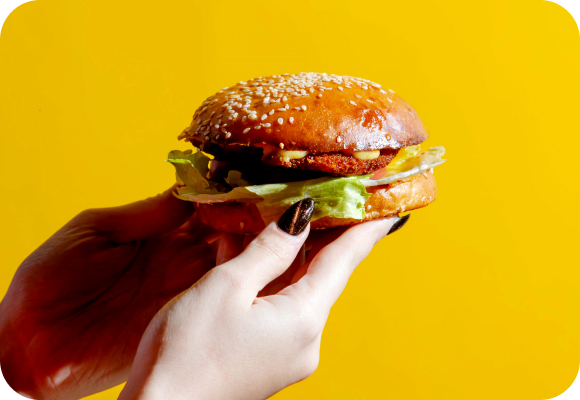
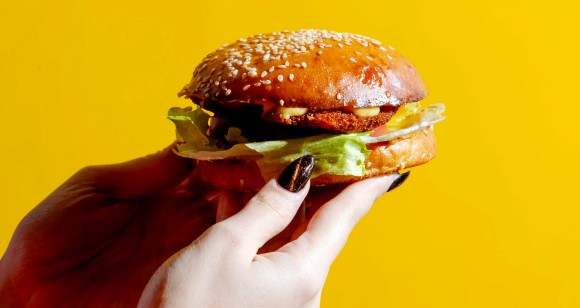
0000

diff --git a/main/main.css b/main/main.css
@@ -7,6 +7,10 @@
     --white: #FFFFFF;
     --black: #1D1D1D;
     --red: #FF3535;
+
+    --background: #D9D9D9;
+
+
   }
   
 
@@ -151,6 +155,8 @@ h3 {
 }
 
 .order {
+    display: flex;
+    flex-direction: column;
     padding: 2rem;
     height: 100%;
     border-radius: 0.75rem;
@@ -160,16 +166,11 @@ h3 {
     }
     p {
         color: #000000;
-        margin-bottom: 0;
-    }
-    .btn {
-        margin-top: 1.5rem;
     }
 }
 
 .burger {
     border-radius: 0.75rem;
-    background-color: var(--yellow);
 
     img {
         border-radius: 0.75rem;

diff --git a/blocks/headercss.css b/blocks/headercss.css
@@ -1,3 +1,9 @@
+:root{
+    --background: #1D1D1D;
+    --footer: #D6D6D6;
+    --color: black;
+}
+
 nav {
     display: flex;
     justify-content: center;

diff --git a/main/main.php b/main/main.php
@@ -52,7 +52,7 @@
                     <div class="butn"><p>Узнать подробнее</p>
                 </div>
                 </div>
-                <div class="burger"><img src="/main/burger_on_hand.jpg" alt="" width="100%"></div>
+                <div class="burger"><img src="/main/burger_on_hand.jpg" alt="" width="100%" style="overflow: hidden;height:100%;"></div>
             </div>
             <div style="position:relative;overflow:hidden;"><a href="https://yandex.ru/maps/org/kazanskaya_naberezhnaya/206821868201/?utm_medium=mapframe&utm_source=maps" style="color:#eee;font-size:12px;position:absolute;top:0px;"></a><a href="https://yandex.ru/maps/15/tula/category/landmark_attraction/89683368508/?utm_medium=mapframe&utm_source=maps" style="color:#eee;font-size:12px;position:absolute;top:14px;">Достопримечательность в Туле</a><iframe src="https://yandex.ru/map-widget/v1/?ll=37.620508%2C54.195835&mode=poi&poi%5Bpoint%5D=37.621148%2C54.196220&poi%5Buri%5D=ymapsbm1%3A%2F%2Forg%3Foid%3D206821868201&z=18.63" width="560" height="400" frameborder="1" allowfullscreen="true" style="position:relative;border-radius:0.75rem;width:99.9%;height:99.9%;border:none;"></iframe></div>
         </div>
